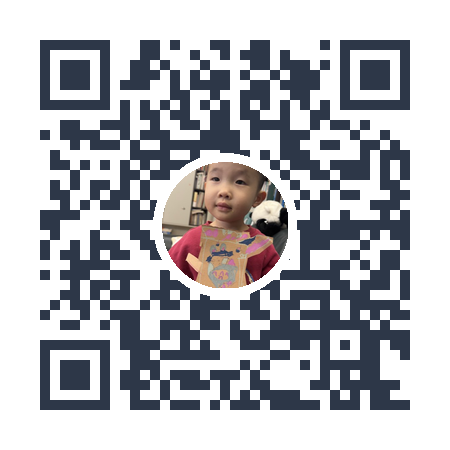
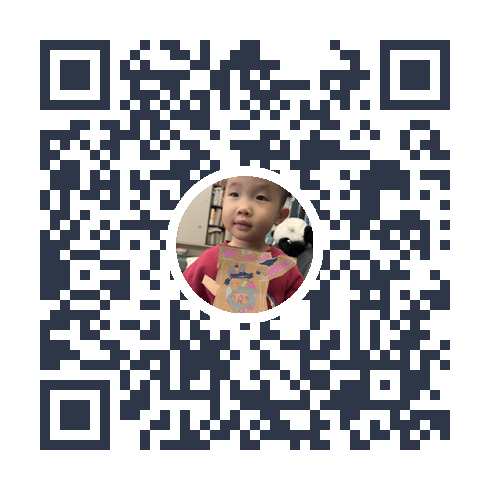
chore(qr): cache-bust QR target with version param v=20260111-2; regenerate image

diff --git a/generate_qr.py b/generate_qr.py
@@ -9,7 +9,7 @@ from PIL import Image, ImageDraw
 import os
 
 # Primary site for QR code – Cloudflare Pages (global CDN, fast everywhere)
-URL = "https://ysqrcode.pages.dev/?enter=1&lite=1"
+URL = "https://ysqrcode.pages.dev/?enter=1&lite=1&v=20260111-2"
 
 def create_totoro_image(size=150):
     """Create a cute Totoro character image."""
